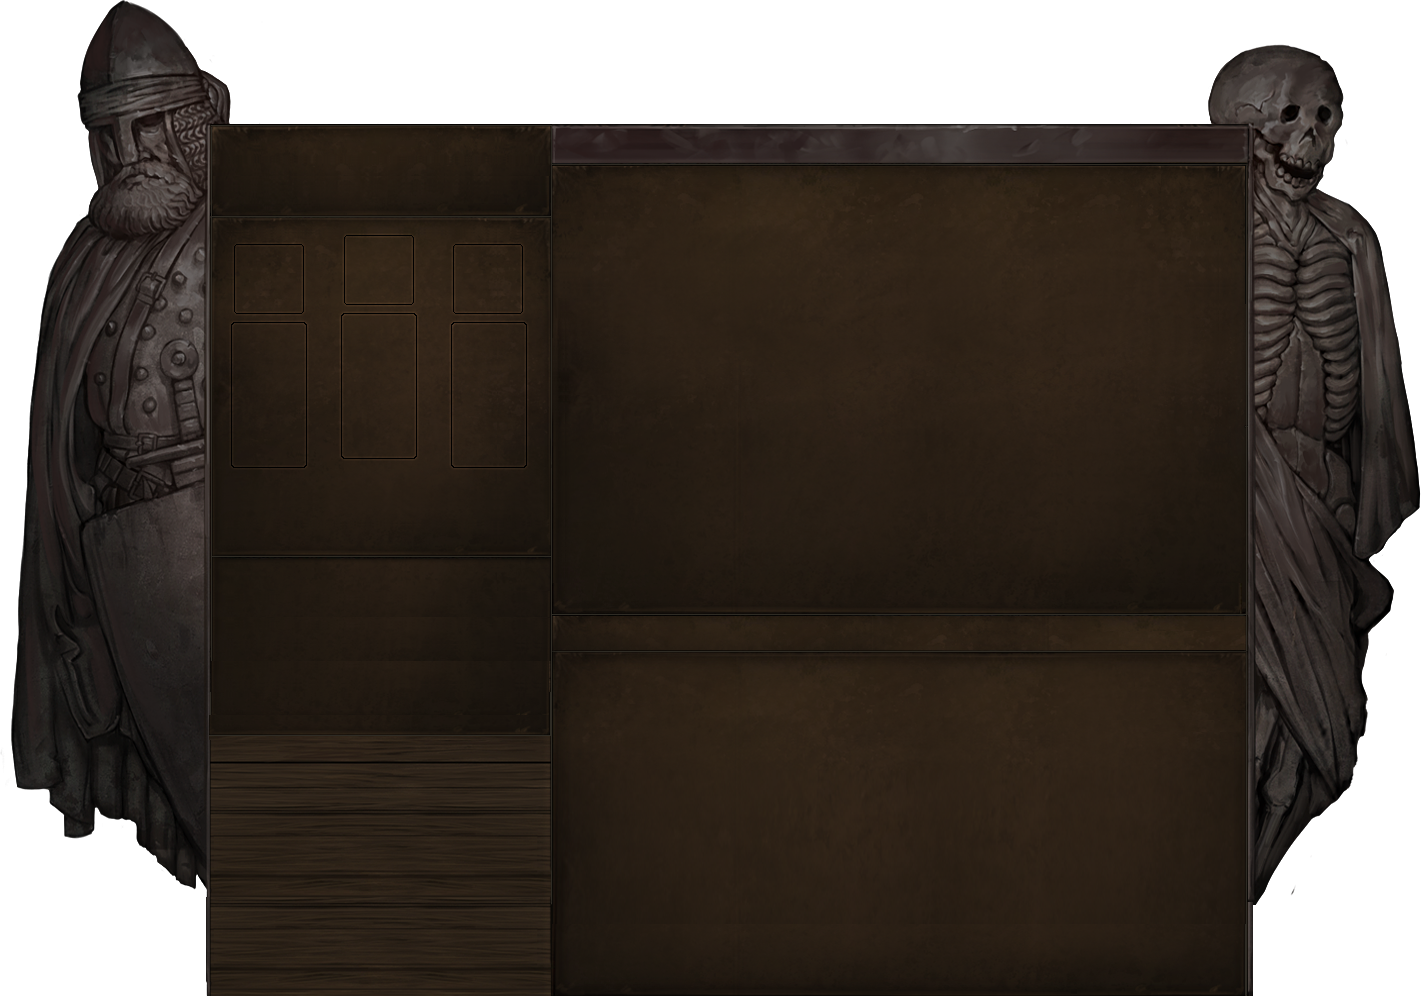
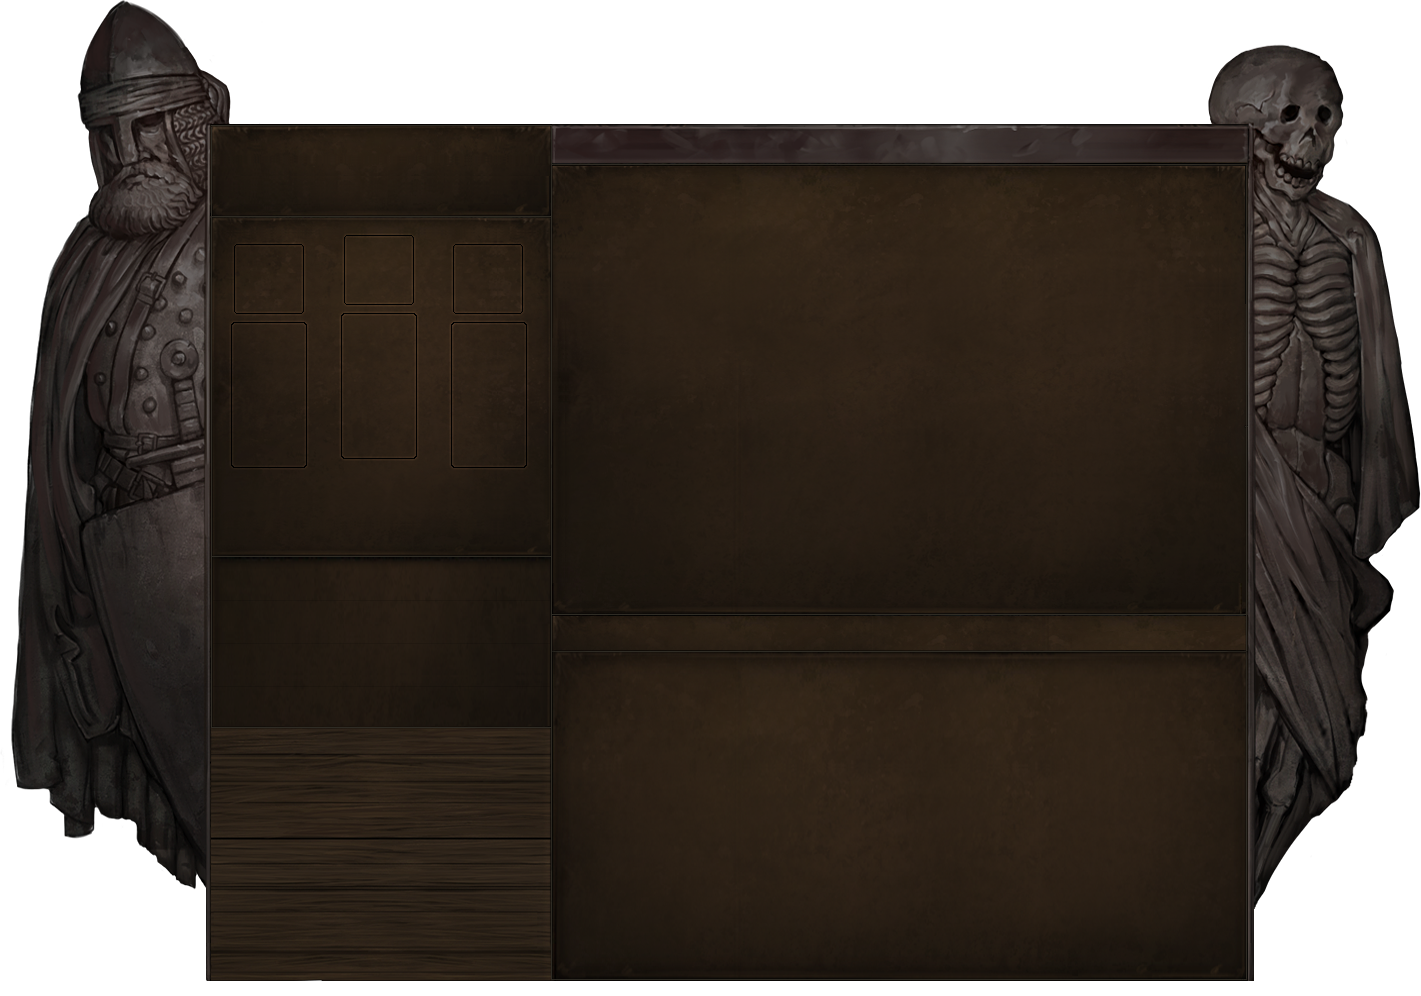
0.2.0: new character screen background, cleanup, full README
- New character screen background (redrawn by a community member) and stats panel
  offset -7.65rem to match it
- resetToDefaults no longer writes BrothersMax onto the class (q.m) at runtime
- Slot counts as named constants (::ER.FormationSlots / FirstReserveSlot, same in JS)
- Named hook functions, comments, removed unused leftovers (FavoriteIDs, ForSaleIDs, EIMO connection)
- MSU GitHub update source; release workflow excludes development files; README rewritten

Changed region(s): [[0.1239, 0.9649, 0.898, 1.0]]

diff --git a/ui/mods/er/character_screen_brothers_list_module.js b/ui/mods/er/character_screen_brothers_list_module.js
@@ -1,10 +1,20 @@
-{   
-    
+// Expanded Roster: the character screen's brother list gets 36 slots instead of vanilla's 27
+// (18 battle formation slots + 18 reserve slots, i.e. two reserve rows).
+// Must match ::ER.FormationSlots / ::ER.FirstReserveSlot in scripts/!mods_preload/main_ER.nut.
+{
+    var ER_FORMATION_SLOTS = 36;
+    var ER_FIRST_RESERVE_SLOT = 18;
+
+    // Replaces vanilla's createBrotherSlots, which hardcodes 27 slots
     CharacterScreenBrothersListModule.prototype.createBrotherSlots = function (_parentDiv)
     {
         var self = this;
 
-        this.mSlots = [null, null, null, null, null, null, null, null, null, null, null, null, null, null, null, null, null, null, null, null, null, null, null, null, null, null, null, null, null, null, null, null, null, null, null, null ];
+        this.mSlots = [];
+        for (var n = 0; n < ER_FORMATION_SLOTS; ++n)
+        {
+            this.mSlots.push(null);
+        }
 
         var dropHandler = function (ev, dd)
         {
@@ -24,14 +34,18 @@
                 return false;
             }
 
+            var fromReserve = drag.data('idx') >= ER_FIRST_RESERVE_SLOT;
+            var toReserve = drop.data('idx') >= ER_FIRST_RESERVE_SLOT;
+            var dropSlotEmpty = self.mSlots[drop.data('idx')].data('child') == null;
+
             // number in formation is limited
-            if (self.mNumActive >= self.mNumActiveMax && drag.data('idx') > 17 && drop.data('idx') <= 17 && self.mSlots[drop.data('idx')].data('child') == null)
+            if (self.mNumActive >= self.mNumActiveMax && fromReserve && !toReserve && dropSlotEmpty)
             {
                 return false;
             }
 
             // always keep at least 1 in formation
-            if (self.mNumActive == 1 && drag.data('idx') <= 17 && drop.data('idx') > 17 && self.mSlots[drop.data('idx')].data('child') == null)
+            if (self.mNumActive == 1 && !fromReserve && toReserve && dropSlotEmpty)
             {
                 return false;
             }
@@ -40,9 +54,9 @@
             self.swapSlots(drag.data('idx'), drop.data('idx'));
         };
 
-        for (var i = 0; i < 36; ++i)
+        for (var i = 0; i < ER_FORMATION_SLOTS; ++i)
         {
-            if(i < 18)
+            if (i < ER_FIRST_RESERVE_SLOT)
                 this.mSlots[i] = $('<div class="ui-control is-brother-slot is-roster-slot"/>');
             else
                 this.mSlots[i] = $('<div class="ui-control is-brother-slot is-reserve-slot"/>');
@@ -53,15 +67,5 @@
             this.mSlots[i].data('child', null);
             this.mSlots[i].drop("end", dropHandler);
         }
-
-        /*$('.is-brother-slot')
-          .drop("start", function ()
-          {
-              $(this).addClass("is-active-slot");
-          })
-          .drop("end", function ()
-          {
-              $(this).removeClass("is-active-slot");
-          });*/
-    }
-    }
+    };
+}

diff --git a/ui/mods/er/css/character_screen.css b/ui/mods/er/css/character_screen.css
@@ -1,10 +1,6 @@
+/* Character screen layout for the taller brother list (two reserve rows) */
 .character-screen .character-screen-container
 {
-	/*left: -1.0rem;
-	right: 0;
-	top: 0;
-	bottom: -0.5rem;*/
-
 	left: 20.9rem;
 	top: 12.5rem;
 	right: 17.6rem;
@@ -13,23 +9,13 @@
 	height: 78.2rem;
 
 	position: absolute;
-
-   /* z-index: 2;*/
-	/*margin: auto;*/
-
-    /*background-image: url("coui://gfx/ui/skin/background_inventory.png");
-    background-repeat: no-repeat;*/
 }
 
+/* Background with the statues; replaces vanilla's background_inventory.png with a taller version */
 .character-screen .character-screen-statuetes
 {
-    width: 142.1rem;
+	width: 142.1rem;
 	height: 99.6rem;
-
-	/*left: -22.0rem;
-	right: 21.5rem;
-	top: -11.9rem;
-	bottom: -0.5rem;*/
 
 	left: 0;
 	right: 0;
@@ -37,10 +23,10 @@
 	bottom: 0;
 
 	position: absolute;
-    z-index: 2;
+	z-index: 2;
 	margin: auto;
 
-    background-image: url("coui://gfx/ui/skin/background_inventory_expanded_skills.png");
-    background-size: 142.1rem 99.6rem;
-    background-repeat: no-repeat;
+	background-image: url("coui://gfx/ui/skin/background_inventory_expanded_skills.png");
+	background-size: 142.1rem 99.6rem;
+	background-repeat: no-repeat;
 }

diff --git a/ui/mods/er/css/character_screen_stats_module.css b/ui/mods/er/css/character_screen_stats_module.css
@@ -1,8 +1,10 @@
+/* Stats module sits lower to make room for the second reserve row; lines up with the panel of
+   gfx/ui/skin/background_inventory_expanded_skills.png (was -8.5rem before the background was redrawn) */
 .character-screen-container .stats-module
 {
 	width: 100%;
-    height: 32.5%; /* AUTO HEIGHT */
+	height: 32.5%; /* AUTO HEIGHT */
 
-    position: absolute;
-    bottom: -8.5rem;
+	position: absolute;
+	bottom: -7.65rem;
 }

diff --git a/README.md b/README.md
@@ -1,18 +1,43 @@
-# Description
+# Expanded Roster
 
-- This mod is increases the max roster size to 30.
-- The number of bros on the battlefield is unchanged.
-- It also adds an extra row of reserve recruits for all the extra brothers.
+A **Battle Brothers** mod (made for **[Reforged](https://github.com/Battle-Modders/mod-reforged)**) that lets your company grow beyond 20 brothers.
 
-- Does not affect the limits of special backgrounds like Lone Wolf.
+<img width="2139" height="1576" alt="Character screen with two reserve rows" src="https://github.com/user-attachments/assets/3e1d1768-b956-4de3-92f0-76b97804ad86" />
 
-<img width="2139" height="1576" alt="image" src="https://github.com/user-attachments/assets/3e1d1768-b956-4de3-92f0-76b97804ad86" />
+---
 
-# Requirements
+## Features
+
+- **Roster size: 30 brothers** (vanilla: 20)
+- **Second row of reserve slots** on the character screen: 18 battle formation slots + **18 reserve slots** (vanilla: 9 reserves)
+- The **number of brothers in battle is unchanged** – the extra brothers wait in reserve
+- Redrawn character screen background with room for the extra row
+- Does **not** change the limits of special origins such as Lone Wolf
+
+---
+
+## Requirements
 
 - Modern Hooks
 - Modding Standards and Utilities (MSU)
+- Made for Reforged (loads after it if present)
 
-# Compatibility
+**Not compatible with:** Smart Loot (`mod_smartLoot`)
 
-- Is safe to remove from- and add to any existing savegames
+## Installation
+
+Download the zip from the latest [release](../../releases) and put it (unextracted) into the game's `data` folder.
+The mod is **safe to add to or remove from an existing savegame**.
+
+---
+
+## Changelog
+
+**0.2.0**
+- New, cleaner character screen background (thanks to the community member who redrew it) and matching position of the stats panel
+- Fixed: the roster size was also written onto the class itself every time a campaign was reset
+- In-game update notifications via MSU
+- Code cleanup and comments
+
+**0.1.0**
+- Roster size 30, second reserve row, expanded character screen
